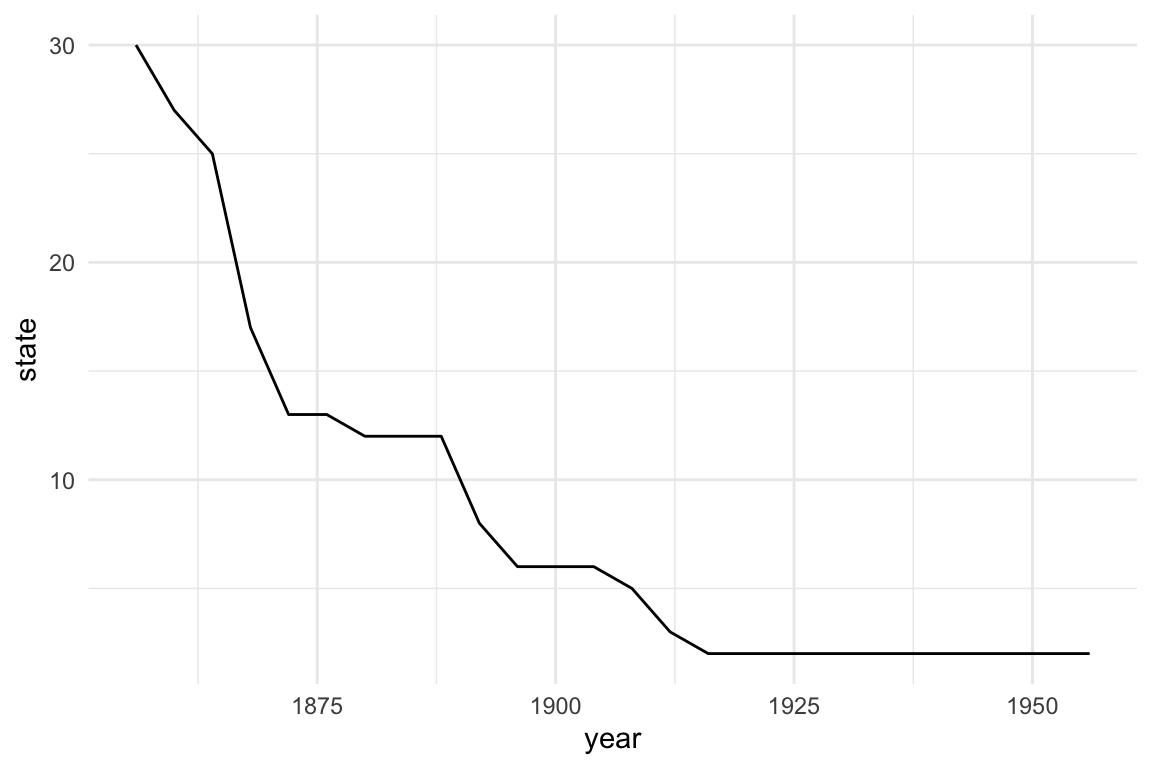
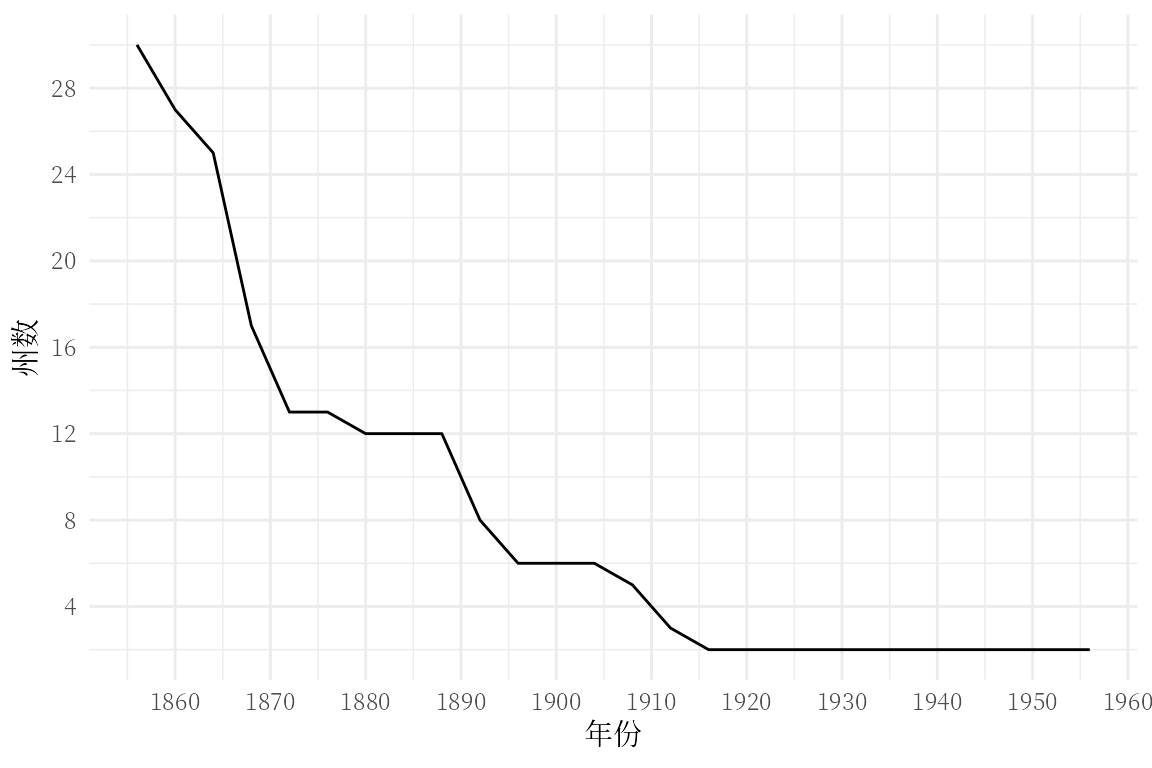
阿拉斯加州和夏威夷州是 1959 年正式加入美国的，之前没有总统大选的选举权，因此数据是缺失的。

diff --git a/content/post/2022-07-06-choropleth-map-animation/index.html b/content/post/2022-07-06-choropleth-map-animation/index.html
@@ -75,8 +75,8 @@ description: "本文面向初学者从零开始制作动态地区分布图，首
 
 div.img, div.figure {
   text-align: center;
-  display: block;
-  margin-left: auto;
+  display: block; 
+  margin-left: auto; 
   margin-right: auto;
 }
 </style>
@@ -132,7 +132,7 @@ div.csl-indent {
 <p>读者可以通过下面的代码一次性把上面的 R 包都安装上：</p>
 <pre class="r"><code>install.packages(c(
   &quot;maps&quot;, &quot;mapproj&quot;, &quot;ggplot2&quot;, &quot;tigris&quot;,
-  &quot;sf&quot;, &quot;gifski&quot;, &quot;showtext&quot;, &quot;ragg&quot;,
+  &quot;sf&quot;, &quot;gifski&quot;, &quot;showtext&quot;, &quot;ragg&quot;, 
   &quot;gganimate&quot;, &quot;tmap&quot;, &quot;echarts4r&quot;
 ))</code></pre>
 </div>
@@ -157,23 +157,23 @@ str(votes.repub)
 <pre class="r"><code>attributes(votes.repub)
 # $dim
 # [1] 50 31
-#
+# 
 # $dimnames
 # $dimnames[[1]]
-#  [1] &quot;Alabama&quot;        &quot;Alaska&quot;         &quot;Arizona&quot;        &quot;Arkansas&quot;
-#  [5] &quot;California&quot;     &quot;Colorado&quot;       &quot;Connecticut&quot;    &quot;Delaware&quot;
-#  [9] &quot;Florida&quot;        &quot;Georgia&quot;        &quot;Hawaii&quot;         &quot;Idaho&quot;
-# [13] &quot;Illinois&quot;       &quot;Indiana&quot;        &quot;Iowa&quot;           &quot;Kansas&quot;
-# [17] &quot;Kentucky&quot;       &quot;Louisiana&quot;      &quot;Maine&quot;          &quot;Maryland&quot;
-# [21] &quot;Massachusetts&quot;  &quot;Michigan&quot;       &quot;Minnesota&quot;      &quot;Mississippi&quot;
-# [25] &quot;Missouri&quot;       &quot;Montana&quot;        &quot;Nebraska&quot;       &quot;Nevada&quot;
-# [29] &quot;New Hampshire&quot;  &quot;New Jersey&quot;     &quot;New Mexico&quot;     &quot;New York&quot;
-# [33] &quot;North Carolina&quot; &quot;North Dakota&quot;   &quot;Ohio&quot;           &quot;Oklahoma&quot;
+#  [1] &quot;Alabama&quot;        &quot;Alaska&quot;         &quot;Arizona&quot;        &quot;Arkansas&quot;      
+#  [5] &quot;California&quot;     &quot;Colorado&quot;       &quot;Connecticut&quot;    &quot;Delaware&quot;      
+#  [9] &quot;Florida&quot;        &quot;Georgia&quot;        &quot;Hawaii&quot;         &quot;Idaho&quot;         
+# [13] &quot;Illinois&quot;       &quot;Indiana&quot;        &quot;Iowa&quot;           &quot;Kansas&quot;        
+# [17] &quot;Kentucky&quot;       &quot;Louisiana&quot;      &quot;Maine&quot;          &quot;Maryland&quot;      
+# [21] &quot;Massachusetts&quot;  &quot;Michigan&quot;       &quot;Minnesota&quot;      &quot;Mississippi&quot;   
+# [25] &quot;Missouri&quot;       &quot;Montana&quot;        &quot;Nebraska&quot;       &quot;Nevada&quot;        
+# [29] &quot;New Hampshire&quot;  &quot;New Jersey&quot;     &quot;New Mexico&quot;     &quot;New York&quot;      
+# [33] &quot;North Carolina&quot; &quot;North Dakota&quot;   &quot;Ohio&quot;           &quot;Oklahoma&quot;      
 # [37] &quot;Oregon&quot;         &quot;Pennsylvania&quot;   &quot;Rhode Island&quot;   &quot;South Carolina&quot;
-# [41] &quot;South Dakota&quot;   &quot;Tennessee&quot;      &quot;Texas&quot;          &quot;Utah&quot;
-# [45] &quot;Vermont&quot;        &quot;Virginia&quot;       &quot;Washington&quot;     &quot;West Virginia&quot;
-# [49] &quot;Wisconsin&quot;      &quot;Wyoming&quot;
-#
+# [41] &quot;South Dakota&quot;   &quot;Tennessee&quot;      &quot;Texas&quot;          &quot;Utah&quot;          
+# [45] &quot;Vermont&quot;        &quot;Virginia&quot;       &quot;Washington&quot;     &quot;West Virginia&quot; 
+# [49] &quot;Wisconsin&quot;      &quot;Wyoming&quot;       
+# 
 # $dimnames[[2]]
 #  [1] &quot;1856&quot; &quot;1860&quot; &quot;1864&quot; &quot;1868&quot; &quot;1872&quot; &quot;1876&quot; &quot;1880&quot; &quot;1884&quot; &quot;1888&quot; &quot;1892&quot;
 # [11] &quot;1896&quot; &quot;1900&quot; &quot;1904&quot; &quot;1908&quot; &quot;1912&quot; &quot;1916&quot; &quot;1920&quot; &quot;1924&quot; &quot;1928&quot; &quot;1932&quot;
@@ -204,7 +204,7 @@ us_votes_repub &lt;- reshape(
   new.row.names = 1:(31 * 50),
   direction = &quot;long&quot;
 )
-# 查看重塑后的数据集 us_votes_repub
+# 查看重塑后的数据集 us_votes_repub 
 head(us_votes_repub)
 #        state state_name year repub_prop
 # 1    alabama    Alabama 1856         NA
@@ -213,7 +213,7 @@ head(us_votes_repub)
 # 4   arkansas   Arkansas 1856         NA
 # 5 california California 1856      18.77
 # 6   colorado   Colorado 1856         NA</code></pre>
-<p>不难看出，数据集 us_votes_repub 不是很完整，一些历史的大选，有些州没有记录。下面统计一下历届大选中数据缺失的情况，如图<a href="#fig:votes-repub-na">3.1</a>所示，除了人烟稀少的阿拉斯加和夏威夷，大选在20世纪初基本覆盖美国。</p>
+<p>不难看出，数据集 us_votes_repub 不是很完整，一些历史的大选，有些州没有记录。下面统计一下历届大选中数据缺失的情况，如图<a href="#fig:votes-repub-na">3.1</a>所示。阿拉斯加州和夏威夷州是 1959 年正式加入美国的，之前只是美国的领地，没有资格参与美国的大选。</p>
 <pre class="r"><code>us_votes_repub_na &lt;- aggregate(
   data = us_votes_repub,
   state ~ year,
@@ -318,9 +318,8 @@ usa_voting_df &lt;- merge(
     legend.position = &quot;bottom&quot;
   )</code></pre>
 </details>
-<p>实际上，1976 年的大选，共和党在阿拉斯加和夏威夷是有得票数据的，因 <strong>maps</strong> 包内置的 state 地图数据集缺少这两个州，所以上图 <a href="#fig:votes-repub-map">3.4</a> 未能展示。另外，图中还缺少北纬/南纬、东经/西经的方向指示。因此，接下来采用 <strong>sf</strong> 包加强的 <strong>ggplot2</strong> 来制作更加完善的地图。</p>
-<p><strong>maps</strong> 包内置的美国州级地图数据不包含阿拉斯加和夏威夷，因此，要从美国人口调查局获取完整的新版地图数据。</p>
-<p><a href="https://walker-data.com/">Kyle Walker</a> 开发的 <strong>tigris</strong> 包封装了地图数据的下载接口，下面获取 2019 年发布的比例尺为 1:20,000,000 的州级地图数据，并将阿拉斯加州、夏威夷群岛和波多黎各适当移动至连续的 48 州下方。</p>
+<p>实际上，1976 年的大选，共和党在阿拉斯加和夏威夷是有得票数据的，因 <strong>maps</strong> 包内置的 state 地图数据集缺少这两个州，所以上图 <a href="#fig:votes-repub-map">3.4</a> 未能展示，因此，要从美国人口调查局获取完整的地图数据。另外，图中还缺少北纬/南纬、东经/西经的方向指示。因此，接下来采用 <strong>sf</strong> 包加强的 <strong>ggplot2</strong> 来制作更加完善的地图。</p>
+<p><a href="https://walker-data.com/">Kyle Walker</a> 开发的 <strong>tigris</strong> 包封装了地图数据的下载接口，下面获取 2019 年发布的比例尺为 1:20000000 的州级地图数据，并将阿拉斯加州、夏威夷州和波多黎各适当移动至连续的 48 州下方。</p>
 <pre class="r"><code>us_state_map &lt;- tigris::states(cb = T, year = 2019, resolution = &quot;20m&quot;, class = &quot;sf&quot;)
 # 移动离岸的地区
 us_state_map &lt;- tigris::shift_geometry(us_state_map, geoid_column = &quot;GEOID&quot;, position = &quot;below&quot;)</code></pre>
@@ -365,8 +364,8 @@ us_state_map &lt;- tigris::shift_geometry(us_state_map, geoid_column = &quot;GEO
 <pre class="r"><code>usa_voting_map_1976 &lt;- merge(
   x = us_state_map,
   y = us_votes_repub_1976,
-  by.x = &quot;NAME&quot;,
-  by.y = &quot;state_name&quot;,
+  by.x = &quot;NAME&quot;, 
+  by.y = &quot;state_name&quot;, 
   all.x = TRUE
 )</code></pre>
 <p>在 sf 包的加持下，地理几何图层 <code>geom_sf()</code> 可以替代 <code>geom_map()</code>，坐标投影图层 <code>coord_sf()</code> 可以替代 <code>coord_map()</code>。整个绘图的过程极大地简化下来了，核心部分只有两行，如下：</p>
@@ -417,8 +416,8 @@ us_state_map &lt;- tigris::shift_geometry(us_state_map, geoid_column = &quot;GEO
 usa_voting_map &lt;- merge(
   x = us_state_map,
   y = us_votes_repub,
-  by.x = &quot;NAME&quot;,
-  by.y = &quot;state_name&quot;,
+  by.x = &quot;NAME&quot;, 
+  by.y = &quot;state_name&quot;, 
   all.x = TRUE
 )
 # year 为 NA 表示没有波多黎各的观测数据，可以去掉
@@ -467,7 +466,7 @@ ggplot() +
 <p>GIF 动图制作过程中有几点需要注意：</p>
 <ol style="list-style-type: decimal">
 <li><p>调整总帧数和帧率，在图<a href="#fig:votes-repub-gganimate">4.1</a>基础上添加过渡效果，需要额外安装 <strong>transformr</strong> 包，它是通过插值的方式实现中间过渡状态的。</p></li>
-<li><p>GIF 动图<a href="#fig:votes-repub-gganimate">4.1</a> 是逐年逐帧显示得票率分布，不需要添加过渡效果，美国大选每四年一届，插值后会很奇怪，但可以调整帧率，即每秒播放的地图分布图的幅数。</p></li>
+<li><p>GIF 动图<a href="#fig:votes-repub-gganimate">4.1</a> 是逐年逐帧显示得票率分布，不需要添加过渡效果，美国大选每四年一届，插值后会很奇怪，但可以调整帧率，即每秒播放地区分布图的幅数。</p></li>
 <li><p><strong>showtext</strong> 包支持在 <strong>ggplot2</strong> 绘制的图形中添加中文字体，但是不支持 <strong>gganimate</strong> 包的动画制作场景。因此，安装 <strong>ragg</strong> 包，在生成 GIF 图<a href="#fig:votes-repub-gganimate">4.1</a>的代码块选项中，图形设备设置为 <code>dev = "ragg_png"</code>。为操作系统安装 <a href="https://github.com/googlefonts/noto-cjk">Noto Serif CJK SC 字体</a>，并设置为图中标题字体。</p></li>
 <li><p>在标题处添加了年份，这样就知道每一帧动画对应的大选之年。</p></li>
 </ol>
@@ -489,7 +488,7 @@ ggplot() +
 </summary>
 </p>
 <pre class="r"><code>library(tmap)
-tm_shape(usa_voting_map_1976) +
+tm_shape(usa_voting_map_1976) + 
   tm_polygons(
     col = &quot;repub_prop&quot;,    # 数据列
     palette = &quot;RdBu&quot;,      # 调色板
@@ -571,8 +570,8 @@ tmap_animation(usa_voting_anim,
 <h2><span class="header-section-number">4.2</span> Web 动画</h2>
 <div id="echarts4r-包" class="section level3" number="4.2.1">
 <h3><span class="header-section-number">4.2.1</span> echarts4r 包</h3>
-<p><a href="https://github.com/JohnCoene/echarts4r"><strong>echarts4r</strong></a><span class="citation">[<a href="#ref-echarts4r" role="doc-biblioref">11</a>]</span> 是 JavaScript 库 <a href="https://echarts.apache.org/en/">Apache ECharts</a> 的 R 语言接口，截止写作时间，R 包内置的 Apache ECharts 更新到 <strong>5.2.2</strong> 版本。<strong>echarts4r</strong> 包目前已经支持了很多 Apache ECharts 的功能，一篇写给初学者的入门文章参见<a href="https://cosx.org/2021/12/introduction-to-echarts4r/">《echarts4r: 从入门到应用》</a>，本节的地图动画是原文暂未涉及的应用案例。</p>
-<p>在制作交互式的地图动画之前，从 Github 下载 <a href="https://github.com/JohnCoene/echarts4r.maps"><strong>echarts4r.maps</strong></a> 包，它内置一份 GeoJSON 格式的美国州级地图数据。</p>
+<p><a href="https://github.com/JohnCoene/echarts4r"><strong>echarts4r</strong></a><span class="citation">[<a href="#ref-echarts4r" role="doc-biblioref">11</a>]</span> 是 JavaScript 库 <a href="https://echarts.apache.org/en/">Apache ECharts</a> 的 R 语言接口。截止写作时间，<strong>echarts4r</strong> 包内置的 Apache ECharts 更新到 <strong>5.3.2</strong> 版本，已经支持很多 Apache ECharts 的功能，一篇写给初学者的入门文章参见<a href="https://cosx.org/2021/12/introduction-to-echarts4r/">《echarts4r: 从入门到应用》</a>，本节的地图动画是原文暂未涉及的应用案例。</p>
+<p>在制作交互式的地图动画之前，先从 Github 下载 <a href="https://github.com/JohnCoene/echarts4r.maps"><strong>echarts4r.maps</strong></a> 包，它内置一份 GeoJSON 格式的美国州级地图数据。</p>
 <pre class="r"><code>remotes::install_github(&#39;JohnCoene/echarts4r.maps&#39;)</code></pre>
 <p>图<a href="#fig:votes-repub-echarts4r-draft">4.4</a> 展示 1856-1976 年美国历届大选中，共和党在各州的得票率变化情况。</p>
 <pre class="r"><code>library(echarts4r)
@@ -581,8 +580,8 @@ us_votes_repub |&gt;
   group_by(year) |&gt;
   e_charts(x = state_name, timeline = TRUE) |&gt;
   em_map(map = &quot;USA&quot;) |&gt;
-  e_map(serie = repub_prop, map = &quot;USA&quot;, name = &quot;得票率（%）&quot;) |&gt;
-  e_visual_map(serie = repub_prop) |&gt;
+  e_map(serie = repub_prop, map = &quot;USA&quot;, name = &quot;得票率（%）&quot;) |&gt; 
+  e_visual_map(serie = repub_prop) |&gt; 
   e_tooltip()</code></pre>
 <div class="figure" style="text-align: center"><span style="display:block;" id="fig:votes-repub-echarts4r-draft"></span>
 <div id="htmlwidget-1" style="width:100%;height:500px;" class="echarts4r html-widget"></div>
@@ -598,9 +597,9 @@ us_votes_repub |&gt;
   formatter = htmlwidgets::JS(&quot;
     function(params){
       if(params.value) {
-        return(&#39;&lt;strong&gt;&#39; + params.name + &#39;&lt;/strong&gt;&#39; +
+        return(&#39;&lt;strong&gt;&#39; + params.name + &#39;&lt;/strong&gt;&#39; + 
                &#39;&lt;br /&gt;&#39; + Math.round(params.value * 100) / 100 + &#39;%&#39;)
-      } else
+      } else 
         return(&#39;数据缺失&#39;)
     }
   &quot;)
@@ -608,7 +607,7 @@ us_votes_repub |&gt;
 <p>百分数处理参考 <a href="https://stackoverflow.com/questions/11832914/">SO 帖子</a>，自定义悬浮提示参考<a href="https://stackoverflow.com/questions/50554304/">SO 帖子</a>。JS 代码中 <code>params.name</code> 对应 <code>e_map()</code> 函数的 <code>name</code> 参数值，<code>params.value</code> 对应 <code>serie</code> 参数值。但是在气泡图中，有点不一样，以 R 内置的数据集 mtcars 为例，<code>params.name</code> 对应 <code>bind</code>，<code>params.value[0]</code> 对应 <code>x</code>， <code>params.value[1]</code> 对应 <code>serie</code> ，<code>params.value[2]</code> 对应 <code>size</code>。不同的图形有不同的对应情况，详见 Apache ECharts <a href="https://echarts.apache.org/en/option.html#tooltip.formatter">官方文档</a>。</p>
 <pre class="r"><code>mtcars |&gt;
   tibble::rownames_to_column(&quot;model&quot;) |&gt;
-  group_by(cyl) |&gt;
+  group_by(cyl) |&gt; 
   e_charts(x = wt) |&gt;
   e_scatter(serie = mpg, size = qsec, bind = model) |&gt;
   e_tooltip(formatter = htmlwidgets::JS(&quot;
@@ -627,7 +626,7 @@ us_votes_repub |&gt;
 <li><p>主副标题：在图形上方添加动画标题、左下方说明数据来源。在动画场景下，用 <code>e_timeline_serie()</code> 实现，非动画场景下，可用 <code>e_title()</code> 实现。</p></li>
 <li><p>地图底图：<strong>echarts4r.maps</strong> 包内置的 <a href="https://geojson.org/">GeoJSON</a> 格式<a href="https://raw.githubusercontent.com/JohnCoene/echarts4r.maps/master/inst/USA.json">美国州级地图</a>。</p></li>
 <li><p>坐标投影：相比于前面展示的动画，最终效果图<a href="#fig:votes-repub-echarts4r">4.5</a>采用的坐标投影不一样，它是反映实际区域面积大小的。</p></li>
-<li><p>数据映射：注意地图数据中州名 name 字段格式，阿拉斯加州是 <code>Alaska</code> 而不是 <code>alaska</code>，这个用于匹配观测数据中的 <code>state_name</code> 列。</p></li>
+<li><p>数据映射：注意地图数据中州名 name 字段格式，如阿拉斯加州是 <code>Alaska</code> 而不是 <code>alaska</code>，这个用于匹配观测数据 <code>us_votes_repub</code> 中的 <code>state_name</code> 列。</p></li>
 <li><p>动画播放：设置自动播放动画，播放间隔为 1s。</p></li>
 </ul>
 <p>仅从图<a href="#fig:votes-repub-echarts4r">4.5</a>不难看出，共和党在北方比较受欢迎。</p>
@@ -703,10 +702,10 @@ us_votes_repub |&gt;
     ), index = 3
   )</code></pre>
 </details>
-<p>Web 动画图<a href="#fig:votes-repub-echarts4r">4.5</a> 的坐标投影方式改为以美国为中心的阿尔伯斯等面积圆锥投影，和前面美国人口调查局发布的多边形地图数据采用一样的坐标参考系，效果如图<a href="#fig:votes-repub-echarts4r-geo">4.6</a>。具体实现如下：</p>
+<p>接下来，将上面的 Web 动画<a href="#fig:votes-repub-echarts4r">4.5</a> 的坐标投影方式改为以美国为中心的阿尔伯斯等面积圆锥投影，和前面美国人口调查局发布的多边形地图数据采用一样的坐标参考系，效果如图<a href="#fig:votes-repub-echarts4r-geo">4.6</a>。具体实现如下：</p>
 <ul>
-<li><p>Apache ECharts 在 5.3.0 版本后，支持设置不同的坐标投影，目前 John Coene 已将 <strong>echarts4r</strong> 包内置的 JavaScript 库更新至最新稳定版本 5.3.2，<strong>echarts4r</strong> 包也已更新至 0.4.4 版本，读者可从 CRAN 下载安装。</p></li>
-<li><p>借助 <code>htmlwidgets::prependContent()</code> 引入 D3 系列的数组操作库<a href="https://github.com/d3/d3-array">d3-array</a>和坐标投影库 <a href="https://github.com/d3/d3-geo">d3-geo</a>实现<a href="https://github.com/d3/d3-geo#geoAlbersUsa">阿尔伯斯等面积圆锥投影</a>，阿拉斯加州移至连续 48 州左下方，面积缩小为原来的 0.35 倍，看起来和美国中部一些州差不多大了，移动夏威夷的位置，面积不变。</p></li>
+<li><p>自定义坐标投影，要求 <strong>echarts4r</strong> 包更新至 0.4.4 及以上版本。</p></li>
+<li><p>借助 <code>htmlwidgets::prependContent()</code> 引入 D3 系列的数组操作库 <a href="https://github.com/d3/d3-array">d3-array</a> 和坐标投影库 <a href="https://github.com/d3/d3-geo">d3-geo</a> 实现<a href="https://github.com/d3/d3-geo#geoAlbersUsa">阿尔伯斯等面积圆锥投影</a>，阿拉斯加州移至连续 48 州左下方，面积缩小为原来的 0.35 倍，看起来和美国中部一些州差不多大了，移动夏威夷的位置，面积不变。</p></li>
 <li><p>制作过程中，参考了 Apache ECharts 官网给的<a href="https://echarts.apache.org/examples/zh/editor.html?c=map-usa-projection">示例</a>和<a href="https://echarts.apache.org/en/option.html#series-map.projection">帮助文档</a>，同时感谢 John Coene 提供的支持和帮助，详见<a href="https://github.com/JohnCoene/echarts4r/issues/428">帖子</a>。</p></li>
 </ul>
 <div class="figure" style="text-align: center"><span style="display:block;" id="fig:votes-repub-echarts4r-geo"></span>
@@ -753,8 +752,8 @@ us_votes_repub |&gt;
   ) |&gt;
   htmlwidgets::prependContent(
     htmltools::tags$script(&quot;const projection = d3.geoAlbersUsa();&quot;)
-  ) |&gt;
-  e_tooltip() |&gt;
+  ) |&gt; 
+  e_tooltip() |&gt; 
   e_timeline_opts(
     autoPlay = TRUE,    # 自动播放
     show = TRUE,        # 展示时间轴
@@ -795,11 +794,11 @@ us_votes_repub |&gt;
 </ul></li>
 <li><p>地图绘制部分：</p>
 <ul>
-<li>地图图层：从权威的渠道获取专业的地图数据，推荐使用 <code>geom_sf()</code> 而不是 <code>geom_map()</code>，前者更加流行和通用。</li>
+<li>地图图层：从权威的渠道获取专业的地图数据，推荐使用 <code>geom_sf()</code> 而不是 <code>geom_map()</code>，前者更加流行和高效。</li>
 <li>投影图层：推荐使用与 <code>geom_sf()</code> 配套的 <code>coord_sf()</code>，根据地理区域的情况选择合适的投影。</li>
 <li>颜色图层：<code>scale_fill_gradient2()</code> 对撞型的调色板衬托美国大选中的两党之争。</li>
 <li>主题层：<code>theme_minimal()</code> 简洁美观即可。</li>
-<li>标题层：<code>labs()</code> 适当添加一些图例标题等。</li>
+<li>标题层：<code>labs()</code> 适当添加一些图例标题、主副标题等。</li>
 </ul></li>
 <li><p>动画制作部分：</p>
 <ul>
@@ -807,7 +806,7 @@ us_votes_repub |&gt;
 <li>Web 动画：<strong>echarts4r</strong> 包的<a href="https://echarts4r.john-coene.com/articles/timeline.html">动画示例</a>比较简单，定制一些内容需要多参考<a href="https://echarts.apache.org/zh/option.html#timeline">时间轴配置项手册</a>。</li>
 </ul></li>
 </ol>
-<p>总的来说，比较复杂的还是在数据操作上，地图数据和观测数据的整洁、完整情况决定了制作地图动画的复杂度。就地图制作来说，要求了解的 R 语言技术是比较全面的，基本涵盖了常用的数据操作方法和 <strong>ggplot2</strong> 做数据可视化的全过程，制作 Web 动图还需要继续了解 <strong>echart4r</strong> 包。</p>
+<p>总的来说，比较复杂的还是在数据操作上，地图数据和观测数据的整洁、完整情况决定了制作地图动画的复杂度。就地图制作来说，要求了解的 R 语言技术是比较全面的，基本涵盖了常用的数据操作方法和 <strong>ggplot2</strong> 做数据可视化的全过程，制作 Web 动画还需要继续了解 <strong>echart4r</strong> 包和 <strong>tmap</strong> 包。</p>
 <p>更多好玩又有挑战的案例见笔者发布在统计之都主站的文章<a href="https://cosx.org/2022/05/choropleth-map/">《地区分布图及其应用》</a>，更多地理数据可视化作品见网站 <a href="https://www.dataviz-inspiration.com/">Dataviz Inspiration</a>。</p>
 </div>
 <div id="sessioninfo" class="section level1" number="6">
@@ -822,17 +821,17 @@ us_votes_repub |&gt;
 # R version 4.2.1 (2022-06-23)
 # Platform: x86_64-apple-darwin17.0 (64-bit)
 # Running under: macOS Big Sur ... 10.16
-#
+# 
 # Locale: en_US.UTF-8 / en_US.UTF-8 / en_US.UTF-8 / C / en_US.UTF-8 / en_US.UTF-8
-#
+# 
 # Package version:
-#   blogdown_1.10   echarts4r_0.4.4 gganimate_1.0.7 ggplot2_3.3.6
-#   gifski_1.6.6-1  knitr_1.39      mapproj_1.2.8   maps_3.4.0
-#   ragg_1.2.2      rmarkdown_2.14  sf_1.0-7        showtext_0.9-5
-#   tigris_1.6.1    tmap_3.3-3
-#
+#   blogdown_1.10   echarts4r_0.4.4 gganimate_1.0.7 ggplot2_3.3.6  
+#   gifski_1.6.6-1  knitr_1.39      mapproj_1.2.8   maps_3.4.0     
+#   ragg_1.2.2      rmarkdown_2.14  sf_1.0-7        showtext_0.9-5 
+#   tigris_1.6.1    tmap_3.3-3     
+# 
 # Pandoc version: 2.18
-#
+# 
 # Hugo version: 0.101.0</code></pre>
 </div>
 <div id="refer" class="section level1" number="7">
